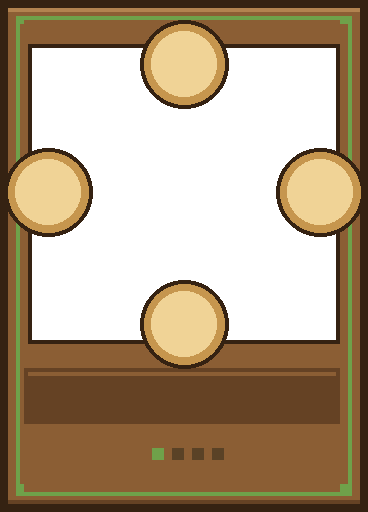
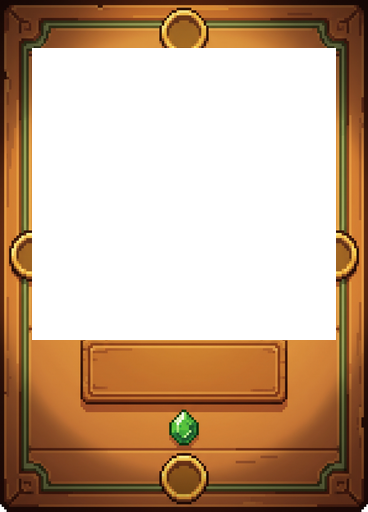
Valley Triad: hand-drawn card art — white-key + scene compose pipeline, new rarity frames, packaging

diff --git a/ValleyTriad/tools/compose_art.py b/ValleyTriad/tools/compose_art.py
@@ -1,0 +1,186 @@
+#!/usr/bin/env python3
+"""Compose final per-card art for Valley Triad.
+
+Pipeline per card:
+  1. Load the subject PNG (subject on a pure-white background) from assets/frames/<cat>/<name>.png
+  2. Key out the white BACKGROUND only, via a flood-fill from the image borders (interior
+     whites — cauliflower, a white hen, a diamond, teeth — are preserved).
+  3. Trim to the subject bounding box and scale to fit the card window.
+  4. Composite over the category scene (assets/frames/<scene>.png) with a soft ground shadow.
+  5. Save to assets/art/<cardId>.png at the exact window size the mod draws (304x292).
+
+Usage:
+  python3 compose_art.py                 # all 52 cards
+  python3 compose_art.py --only abigail,cauliflower,diamond,crimsonfish
+  python3 compose_art.py --out preview   # write to assets/<out>/ instead of assets/art/
+"""
+import os, sys, json, collections
+import numpy as np
+from PIL import Image, ImageFilter, ImageDraw
+
+ROOT = os.path.dirname(os.path.dirname(os.path.abspath(__file__)))
+FRAMES = os.path.join(ROOT, "assets", "frames")
+CARDS = os.path.join(ROOT, "assets", "cards.json")
+
+ART_SIZE = (304, 292)          # window the mod draws (WW*S x WH*S)
+KEY_MAX = 512                  # work resolution for keying
+WHITE_LO = 206                 # background is bright (min channel >= this) ...
+NEUTRAL = 16                   # ... and near-neutral (max-min <= this). Lets the flood cross
+                               # faint gray frame lines while preserving tinted near-whites
+                               # (cream cauliflower, off-white fur) that carry real color.
+FEATHER_D = 4                  # de-halo reaches this many px in from the removed background
+FEATHER_LO = 196               # brightness at/below which an edge pixel keeps full opacity
+WHITE_T = 238                  # feather target: fully-white edge pixels fade to alpha 0
+SUBJECT_W = 0.92               # subject max width as fraction of window
+SUBJECT_H = 0.86               # subject max height as fraction of window
+GROUND_Y = 0.95                # subject feet sit at this fraction of window height
+
+RENAME = {"cranberry": "cranberries", "peperrex": "pepperrex", "elliot": "elliott"}
+CATS = ["animals", "crops", "fish", "forage", "minerals", "monsters", "specials", "villagers"]
+SCENE = {"Crop": "field", "Forage": "field", "Animal": "pasture", "Mineral": "mine",
+         "Monster": "mine", "Fish": "sea", "Villager": "saloon", "Special": "night"}
+SCENE_OVERRIDE = {"wizard": "night"}   # wizard is a Villager but uses the night scene
+
+
+def load_cards():
+    d = json.load(open(CARDS))
+    cards = d if isinstance(d, list) else next((v for v in d.values() if isinstance(v, list)), [])
+    return {(c.get("Id") or c.get("id")): (c.get("Category") or c.get("category")) for c in cards}
+
+
+def find_subject_files():
+    """stem -> (category_folder, full_path)"""
+    out = {}
+    for cat in CATS:
+        d = os.path.join(FRAMES, cat)
+        if not os.path.isdir(d):
+            continue
+        for f in sorted(os.listdir(d)):
+            if f.lower().endswith(".png"):
+                out[os.path.splitext(f)[0]] = (cat, os.path.join(d, f))
+    return out
+
+
+def key_white_background(im):
+    """Return RGBA with the border-connected white background made transparent."""
+    im = im.convert("RGBA")
+    if max(im.size) > KEY_MAX:
+        s = KEY_MAX / max(im.size)
+        im = im.resize((round(im.size[0] * s), round(im.size[1] * s)), Image.LANCZOS)
+    arr = np.asarray(im).copy()
+    h, w = arr.shape[:2]
+    rgb = arr[:, :, :3].astype(int)
+    mn = rgb.min(axis=2); mx = rgb.max(axis=2)
+    whiteish = (mn >= WHITE_LO) & ((mx - mn) <= NEUTRAL)
+
+    visited = np.zeros((h, w), dtype=bool)
+    dq = collections.deque()
+    for x in range(w):
+        for y in (0, h - 1):
+            if whiteish[y, x] and not visited[y, x]:
+                visited[y, x] = True; dq.append((y, x))
+    for y in range(h):
+        for x in (0, w - 1):
+            if whiteish[y, x] and not visited[y, x]:
+                visited[y, x] = True; dq.append((y, x))
+    while dq:
+        y, x = dq.popleft()
+        for ny, nx in ((y - 1, x), (y + 1, x), (y, x - 1), (y, x + 1)):
+            if 0 <= ny < h and 0 <= nx < w and not visited[ny, nx] and whiteish[ny, nx]:
+                visited[ny, nx] = True; dq.append((ny, nx))
+
+    # second pass: also drop enclosed pockets of *pure* white (e.g. background trapped between
+    # a character's legs or under the feet, which the border flood can't reach). Restricted to
+    # near-255 neutral pixels, so shaded/tinted subject whites (cream cauliflower, a hen, bluish
+    # quartz) are never touched.
+    pure = (mn >= 246) & ((mx - mn) <= 8)
+    visited |= pure
+
+    # de-halo by feathering: within FEATHER_D px of the removed background, fade a pixel's
+    # alpha in proportion to how white it is. This dissolves the light AA ring without a hard
+    # erosion, and — being distance-limited — never touches interior whites (cauliflower head,
+    # a white hen, teeth) that sit well inside the subject.
+    zone = visited.copy()
+    for _ in range(FEATHER_D):
+        n = zone.copy()
+        n[1:, :] |= zone[:-1, :]; n[:-1, :] |= zone[1:, :]
+        n[:, 1:] |= zone[:, :-1]; n[:, :-1] |= zone[:, 1:]
+        zone = n
+    zone &= ~visited
+    bright = (arr[:, :, 0].astype(float) + arr[:, :, 1] + arr[:, :, 2]) / 3.0
+    whiteness = np.clip((bright - FEATHER_LO) / (WHITE_T - FEATHER_LO), 0.0, 1.0)  # 0..1
+    alpha = arr[:, :, 3].astype(float)
+    alpha = np.where(zone, alpha * (1.0 - whiteness), alpha)
+    alpha[visited] = 0   # removed background is fully transparent (must be applied last)
+    arr[:, :, 3] = np.clip(alpha, 0, 255).astype(np.uint8)
+    return Image.fromarray(arr, "RGBA")
+
+
+def trim(im):
+    a = np.asarray(im)[:, :, 3]
+    ys, xs = np.where(a > 8)
+    if len(xs) == 0:
+        return im
+    return im.crop((xs.min(), ys.min(), xs.max() + 1, ys.max() + 1))
+
+
+def compose(card_id, category, subject_path, out_dir):
+    scene_name = SCENE_OVERRIDE.get(card_id, SCENE[category])
+    scene = Image.open(os.path.join(FRAMES, scene_name + ".png")).convert("RGBA").resize(ART_SIZE, Image.LANCZOS)
+
+    subj = trim(key_white_background(Image.open(subject_path)))
+    maxw, maxh = int(ART_SIZE[0] * SUBJECT_W), int(ART_SIZE[1] * SUBJECT_H)
+    sc = min(maxw / subj.size[0], maxh / subj.size[1])
+    subj = subj.resize((max(1, round(subj.size[0] * sc)), max(1, round(subj.size[1] * sc))), Image.LANCZOS)
+
+    x = (ART_SIZE[0] - subj.size[0]) // 2
+    y = int(ART_SIZE[1] * GROUND_Y) - subj.size[1]
+    y = max(2, y)
+
+    # soft ground shadow
+    shadow = Image.new("RGBA", ART_SIZE, (0, 0, 0, 0))
+    sd = ImageDraw.Draw(shadow)
+    sw = int(subj.size[0] * 0.7); sh = max(6, int(subj.size[1] * 0.10))
+    cx = ART_SIZE[0] // 2; cy = y + subj.size[1] - sh // 2
+    sd.ellipse([cx - sw // 2, cy - sh // 2, cx + sw // 2, cy + sh // 2], fill=(0, 0, 0, 110))
+    shadow = shadow.filter(ImageFilter.GaussianBlur(4))
+    scene = Image.alpha_composite(scene, shadow)
+
+    scene.paste(subj, (x, y), subj)
+
+    os.makedirs(out_dir, exist_ok=True)
+    dst = os.path.join(out_dir, card_id + ".png")
+    scene.convert("RGBA").save(dst, optimize=True)
+    return dst, os.path.getsize(dst)
+
+
+def main():
+    only = None
+    out_dir = os.path.join(ROOT, "assets", "art")
+    args = sys.argv[1:]
+    i = 0
+    while i < len(args):
+        if args[i] == "--only":
+            only = set(args[i + 1].split(",")); i += 2
+        elif args[i] == "--out":
+            out_dir = os.path.join(ROOT, "assets", args[i + 1]); i += 2
+        else:
+            i += 1
+
+    ids = load_cards()
+    files = find_subject_files()
+    done = 0
+    for stem, (cat, path) in files.items():
+        card_id = RENAME.get(stem, stem)
+        if card_id not in ids:
+            print(f"  SKIP {stem}: no cardId"); continue
+        if only and card_id not in only:
+            continue
+        dst, size = compose(card_id, ids[card_id], path, out_dir)
+        print(f"  {card_id:16s} [{ids[card_id]:8s} -> {SCENE_OVERRIDE.get(card_id, SCENE[ids[card_id]])}]  {size//1024} KB")
+        done += 1
+    print(f"done: {done} cards -> {out_dir}")
+
+
+if __name__ == "__main__":
+    main()
